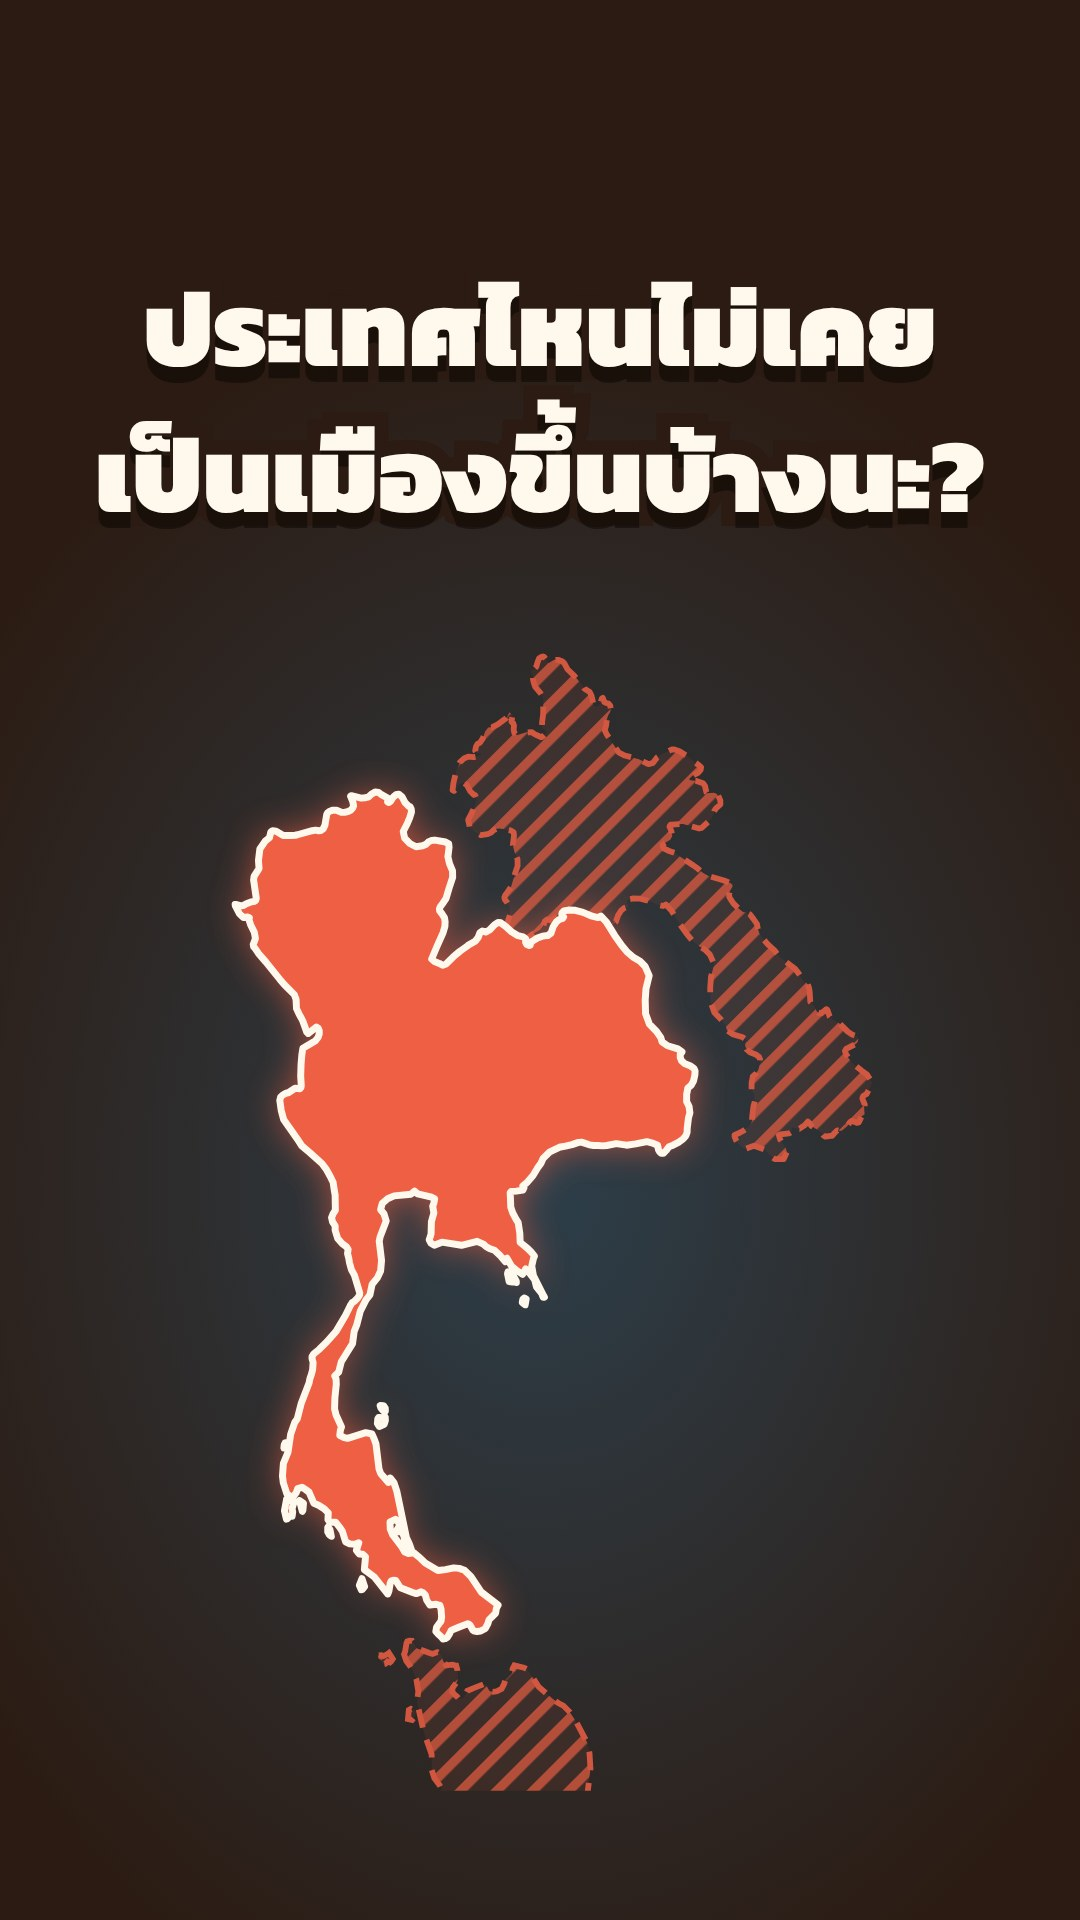
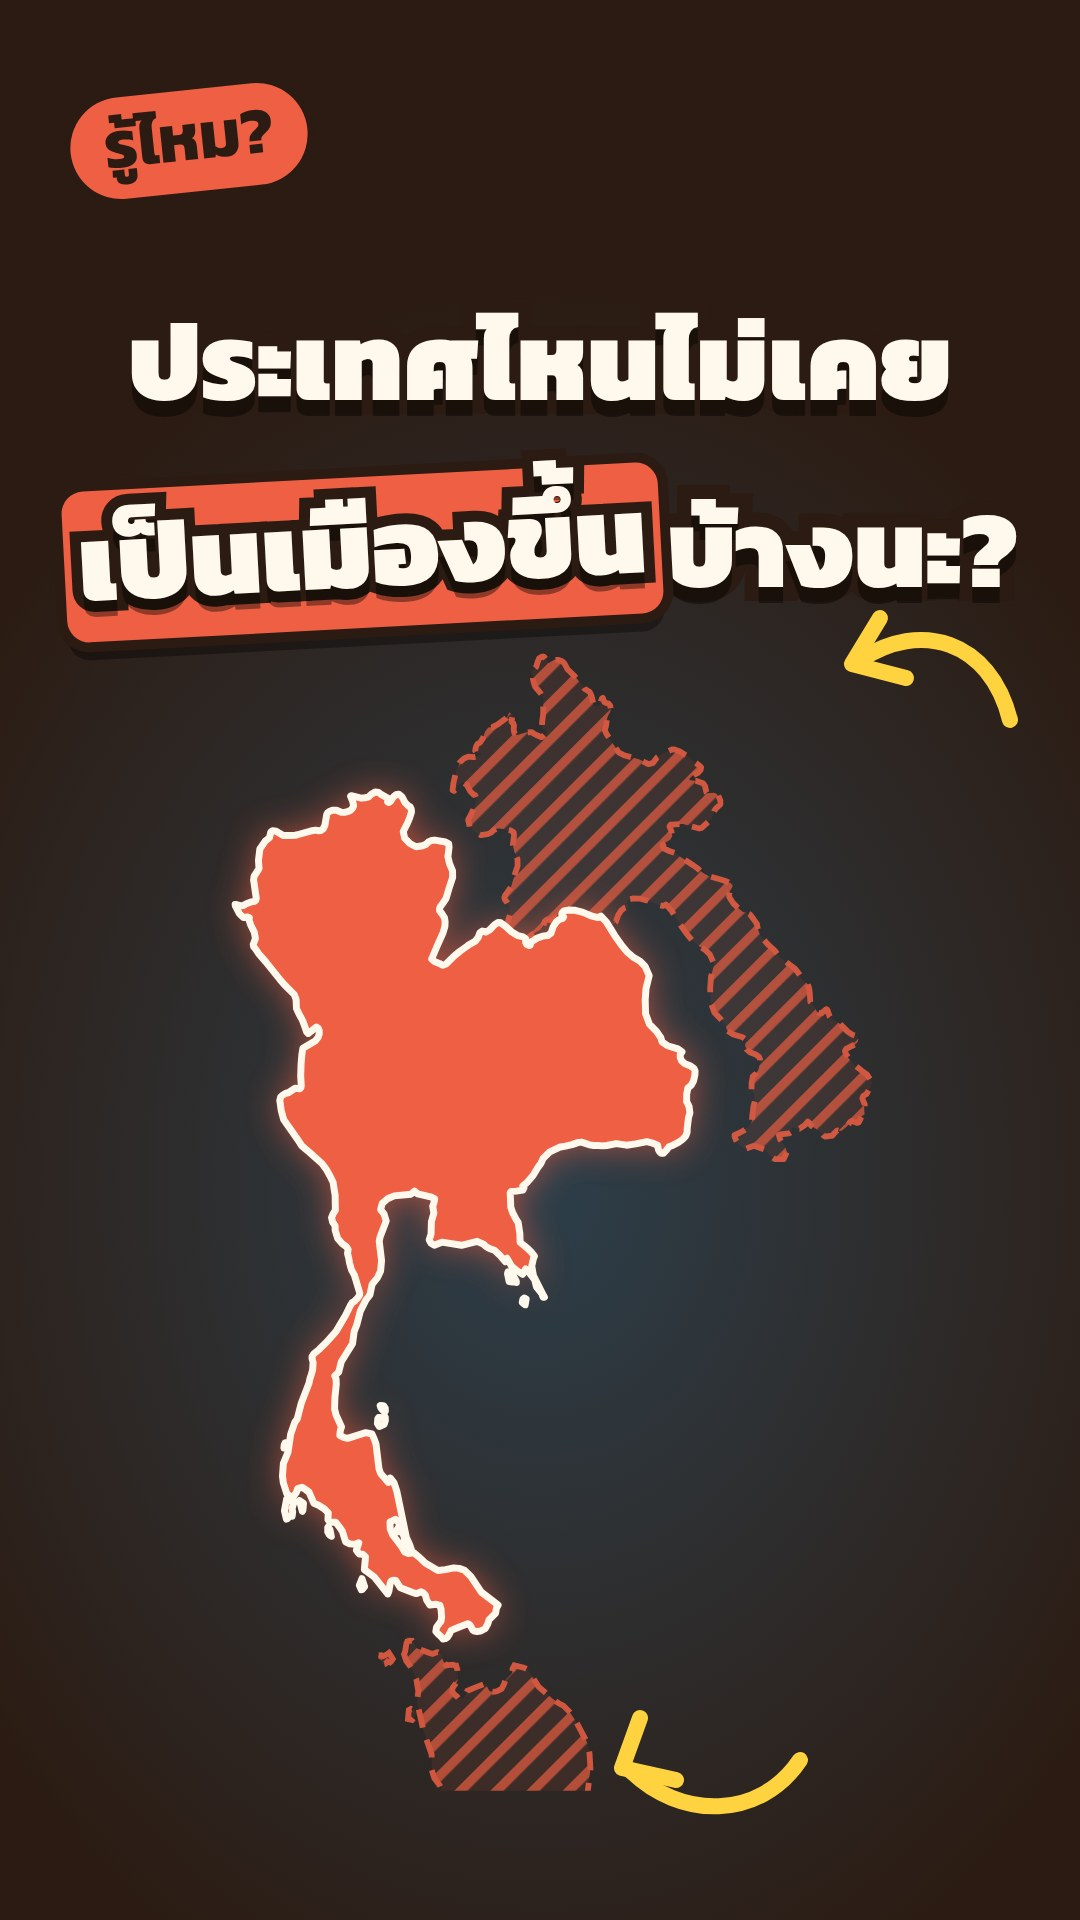
never-colonized: ปก A/B สไตล์ช่อง (กล่องคำเด่นเอียง, ป้าย, ลูกศร) ตามผู้ใช้

Changed region(s): [[0.0611, 0.125, 0.9472, 0.375], [0.0611, 0.0312, 0.3056, 0.125], [0.55, 0.875, 0.7639, 0.9688]]

diff --git a/projects/2026-11-27-knowledge-never-colonized/video/cover.html b/projects/2026-11-27-knowledge-never-colonized/video/cover.html
@@ -38,10 +38,19 @@ html,body{width:1080px;height:1920px;overflow:hidden;background:#000}
 .va,.vbart{display:none}
 #root:not(.vb) .va{display:block}
 #root.vb .vbart{display:block}
+#root.vb .ring.va{display:none}
 .fl{position:absolute;box-shadow:0 0 0 7px var(--ink),0 22px 40px rgba(0,0,0,.35);border-radius:10px;overflow:hidden}
 #art .fl svg,#art .fl img,#art .np svg{position:static;width:100%;height:100%;display:block}
 #root:not(.vb) #art{top:640px;height:1160px}
 #root:not(.vb) #art .va svg{height:1160px}
+
+/* never-colonized (ผู้ใช้ 2026-11-27: ให้ใกล้ปกเก่าของช่อง) — คำเด่นในกล่องเอียงแบบ "ตัด", วงกลมวาดมือรอบพื้นที่ที่เสีย */
+#title .tl b{display:inline-block;background:var(--accent);color:var(--text);padding:0 14px 8px;margin:0 2px;border-radius:22px;
+  transform:rotate(-3deg);box-shadow:0 0 0 10px var(--ink),0 18px 0 rgba(0,0,0,.35);-webkit-text-stroke:22px var(--ink)}
+#root.vb #title .tl b{background:var(--ink);color:var(--accent);-webkit-text-stroke:0;box-shadow:0 0 0 10px #fff,0 18px 0 rgba(0,0,0,.25)}
+#badge{transform:rotate(-6deg);font-size:66px;padding:14px 34px 22px;left:70px;top:90px}
+#title{top:290px;gap:44px}
+.ring{position:absolute;z-index:3;pointer-events:none}
 </style></head><body>
 <div id="root">
   <div id="art" data-cover="art"><div class="va"><svg viewBox="262 22 590 1000" preserveAspectRatio="xMidYMid meet">
@@ -66,6 +75,9 @@ html,body{width:1080px;height:1920px;overflow:hidden;background:#000}
    <circle cx="22" cy="92" r="10" fill="#fff"/><g fill="#fff"><rect x="21" y="77" width="2" height="6" transform="rotate(0 22 92)"/><rect x="21" y="77" width="2" height="6" transform="rotate(30 22 92)"/><rect x="21" y="77" width="2" height="6" transform="rotate(60 22 92)"/><rect x="21" y="77" width="2" height="6" transform="rotate(90 22 92)"/><rect x="21" y="77" width="2" height="6" transform="rotate(120 22 92)"/><rect x="21" y="77" width="2" height="6" transform="rotate(150 22 92)"/><rect x="21" y="77" width="2" height="6" transform="rotate(180 22 92)"/><rect x="21" y="77" width="2" height="6" transform="rotate(210 22 92)"/><rect x="21" y="77" width="2" height="6" transform="rotate(240 22 92)"/><rect x="21" y="77" width="2" height="6" transform="rotate(270 22 92)"/><rect x="21" y="77" width="2" height="6" transform="rotate(300 22 92)"/><rect x="21" y="77" width="2" height="6" transform="rotate(330 22 92)"/></g></svg></div>
  <div class="fl" style="left:500px;top:420px;width:360px;height:240px;transform:rotate(4deg)"><svg viewBox="0 0 9 6"><rect width="9" height="6" fill="#A51931"/><rect y="1" width="9" height="4" fill="#F4F5F8"/><rect y="2" width="9" height="2" fill="#2D2A4A"/></svg></div>
 </div></div>
+  <svg class="ring va" style="left:0;top:0;width:1080px;height:1920px" viewBox="0 0 1080 1920"><g fill="none" stroke="#FFD23F" stroke-width="16" stroke-linecap="round" stroke-linejoin="round">
+<path d="M1010,720 C990,640 920,620 860,660"/><path d="M880,618 L852,664 L906,678"/>
+<path d="M800,1760 C760,1820 680,1820 630,1770"/><path d="M640,1718 L622,1768 L676,1780"/></g></svg>
   <div id="title"></div>
   <div id="badge" data-cover="badge"></div>
 </div>
@@ -81,7 +93,7 @@ const esc = s => s.replace(/[&<>]/g, m => ({ '&': '&amp;', '<': '&lt;', '>': '&g
 document.getElementById('title').innerHTML =
   c.lines.map(l => `<div class="tl" data-cover="text">${esc(l).replace(/\*([^*]+)\*/g, '<b>$1</b>')}</div>`).join('');
 { const tls = [...document.querySelectorAll('#title .tl')]; let fs = 170;
-  const fit = () => { tls.forEach(el => el.style.fontSize = fs + 'px'); return tls.every(el => el.scrollWidth <= 940); };
+  const fit = () => { tls.forEach(el => el.style.fontSize = fs + 'px'); return tls.every(el => el.scrollWidth <= 990); };
   while (!fit() && fs > 60) fs -= 4; }
 const bd = document.getElementById('badge');
 if (c.badge) bd.textContent = c.badge; else bd.remove();

diff --git a/projects/2026-11-27-knowledge-never-colonized/thumbnail.md b/projects/2026-11-27-knowledge-never-colonized/thumbnail.md
@@ -3,7 +3,7 @@
 
 | แบบ | ภาพเด่น | ข้อความ (≤2 บรรทัด, look.json covers) | แนว | ทำไมต่างจากชื่อ |
 |---|---|---|---|---|
-| **A (หลัก)** | แผนที่ไทยสีทองเต็มกรอบ มีรอยร้าว/ชิ้นด้านขวา (ฝั่งซ้ายโขง) และใต้ (หัวเมืองมลายู) แยกออกเล็กน้อย บนพื้นแผนที่เก่าโทนครีม | ประเทศไหนไม่เคย / เป็นเมืองขึ้นบ้างนะ? (ผู้ใช้เลือกคำ) | curiosity: ราคาที่ต้องจ่าย (จริงตาม research ข้อ 4ค + MFA) | ชื่อพูดเรื่องจัดอันดับ 4 ประเทศ ปกพูดเรื่องราคาที่ไทยจ่าย |
-| B | ธง 4 ผืนขนาดเท่ากัน ตาราง 2x2 (ญี่ปุ่น อิหร่าน เนปาล ไทย) — ผู้ใช้: "เอาใจแต่ไม่อวยออกนอกหน้า" | ทำไม 4 ประเทศนี้ / ไม่เคยเป็นเมืองขึ้น? | ภูมิใจ/ระบุตัว | ปกบอกว่าไทยติด ชื่อเก็บว่าอีก 4 คือใคร |
+| **A (หลัก)** | แผนที่ไทยสีทองเต็มกรอบ มีรอยร้าว/ชิ้นด้านขวา (ฝั่งซ้ายโขง) และใต้ (หัวเมืองมลายู) แยกออกเล็กน้อย บนพื้นแผนที่เก่าโทนครีม | ประเทศไหนไม่เคย / [เป็นเมืองขึ้น]บ้างนะ? + ป้าย "รู้ไหม?" + ลูกศรชี้พื้นที่ที่เสีย (ผู้ใช้: ให้ใกล้ปกเก่าของช่อง) | curiosity: ราคาที่ต้องจ่าย (จริงตาม research ข้อ 4ค + MFA) | ชื่อพูดเรื่องจัดอันดับ 4 ประเทศ ปกพูดเรื่องราคาที่ไทยจ่าย |
+| B | ธง 4 ผืนขนาดเท่ากัน ตาราง 2x2 (ญี่ปุ่น อิหร่าน เนปาล ไทย) — ผู้ใช้: "เอาใจแต่ไม่อวยออกนอกหน้า" | ทำไม 4 ประเทศนี้ / [ไม่เคย]เป็นเมืองขึ้น? + ป้าย "ประวัติศาสตร์" | ภูมิใจ/ระบุตัว | ปกบอกว่าไทยติด ชื่อเก็บว่าอีก 4 คือใคร |
 ห้าม: พระบรมฉายาลักษณ์/ภาพบุคคล, สีแดงตำหนิเพื่อนบ้าน, คลิปอาร์ตมือการ์ตูน
 หลังลง ≥48 ชม.: `python3 tools/cover_check.py log projects/2026-11-27-knowledge-never-colonized --variant a --ctr <%> --impressions <n>`
